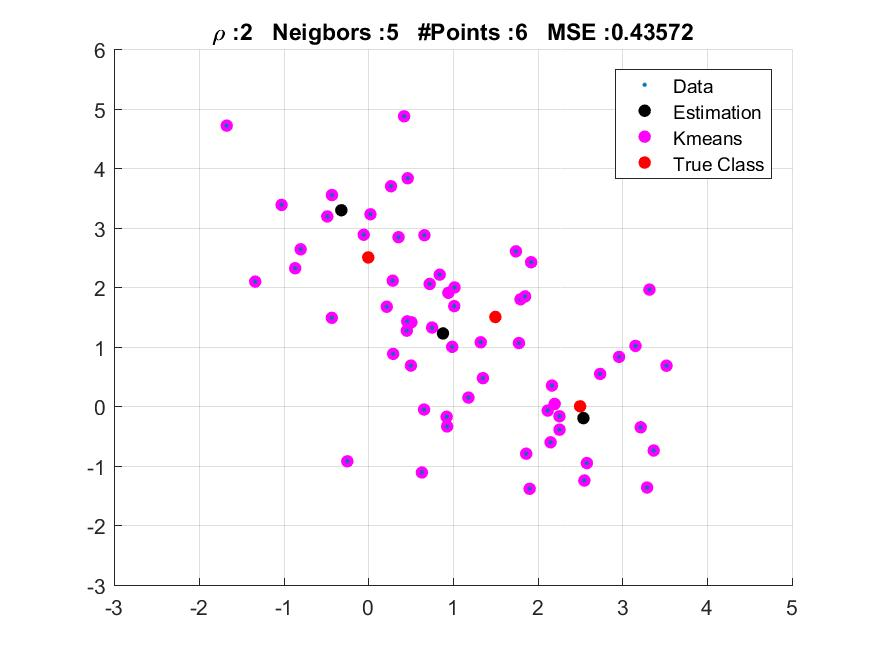
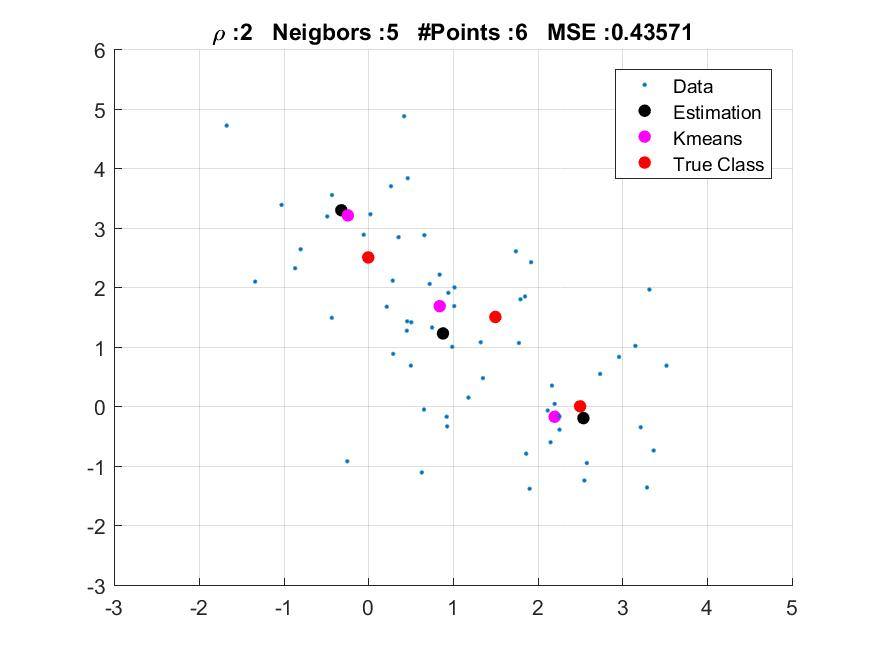
graphics

diff --git a/Fase2/badRegionsTest2.m b/Fase2/badRegionsTest2.m
@@ -4,6 +4,15 @@ class3 = [[2.5 0 0];[0 2.5 0];[1.85 1.85 0];];
 class4 = [[2.5 0 0];[0 2.5 0];[1.75 1.75 0];];
 class5 = [[2.5 0 0];[0 2.5 0];[1.5 1.5 0];];
 class6 = [[2.5 0 0];[0 2.5 0];[1.25 1.25 0];];
+class7 = [[2.5 0 0];[0 2.5 0];[2.5 2.25 0];];
+class8 = [[2.5 0 0];[0 2.5 0];[2.5 2 0];];
+class9 = [[2.5 0 0];[0 2.5 0];[2.5 1.75 0];];
+class10 = [[2.5 0 0];[0 2.5 0];[2.5 1.5 0];];
+class11 = [[2.5 0 0];[0 2.5 0];[2.5 1.25 0];];
+class12 = [[2.5 0 0];[0 2.5 0];[2.5 1 0];];
+class13 = [[2.5 0 0];[0 2.5 0];[2.5 0.75 0];];
+class14 = [[2.5 0 0];[0 2.5 0];[2.5 0.5 0];];
+class15 = [[2.5 0 0];[0 2.5 0];[2.5 0.25 0];];
 
 classes = cell(3,1);
 classes{1} = class1';
@@ -12,13 +21,22 @@ classes{3} = class3';
 classes{4} = class4';
 classes{5} = class5';
 classes{6} = class6';
+classes{7} = class7';
+classes{8} = class8';
+classes{9} = class9';
+classes{10} = class10';
+classes{11} = class11';
+classes{12} = class12';
+classes{13} = class13';
+classes{14} = class14';
+classes{15} = class15';
 
 %% 
-rVector = randn(3,60);
-classtype = fix(rand(60,1)*3)+1;
+%rVector = randn(3,60);
+%classtype = fix(rand(60,1)*3)+1;
 %%
 factor = 0.85;
-ONLYPRINT = 1;
+ONLYPRINT = 0;
 %%
 c = ['r','b','g'];
 ro = 2;
@@ -34,7 +52,8 @@ for i = 1:length(classes)
     %%
     if ONLYPRINT == 0
     [classPred, x, mse, points]=funcXneighbors(y, neig, ro, classes{i});
-    [ind, ctr] = kmeans(y, 3);
+    opts = statset('Display','final');
+    [ind, ctr] = kmeans(y',3,'Distance','cityblock','Replicates',5,'Options',opts);
     %%
     C{i} = ctr;
     CLASSPred{i} = classPred;
